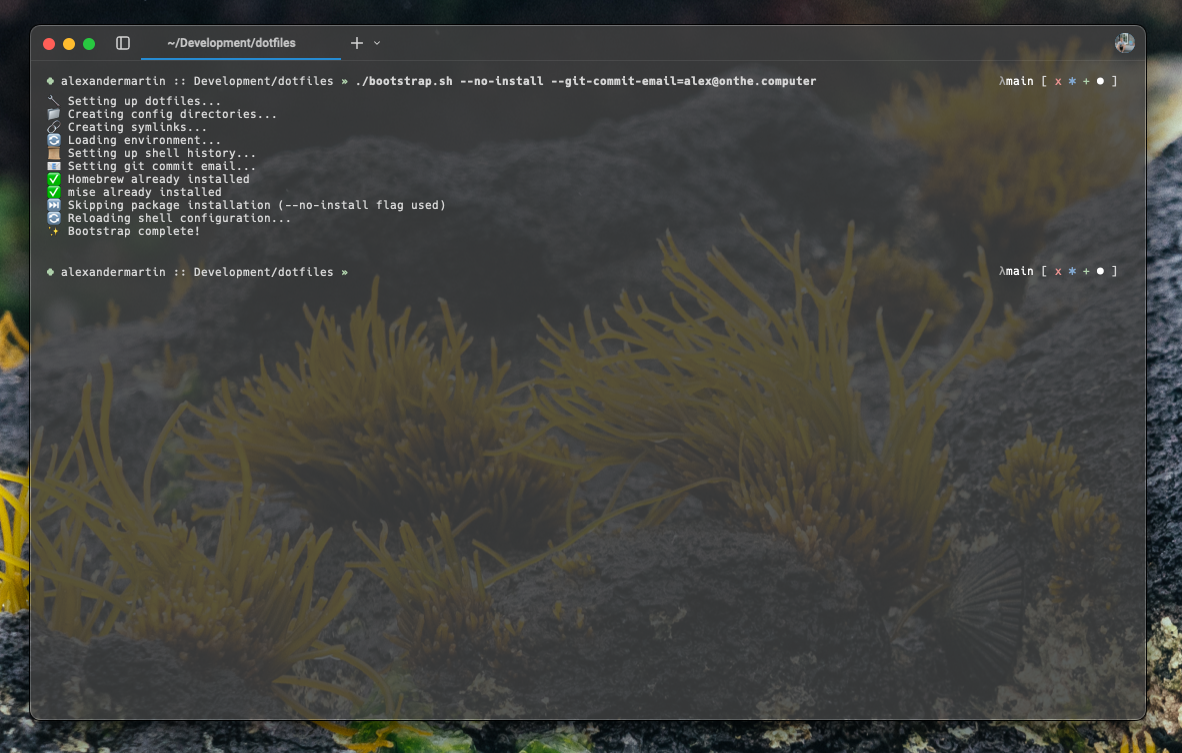
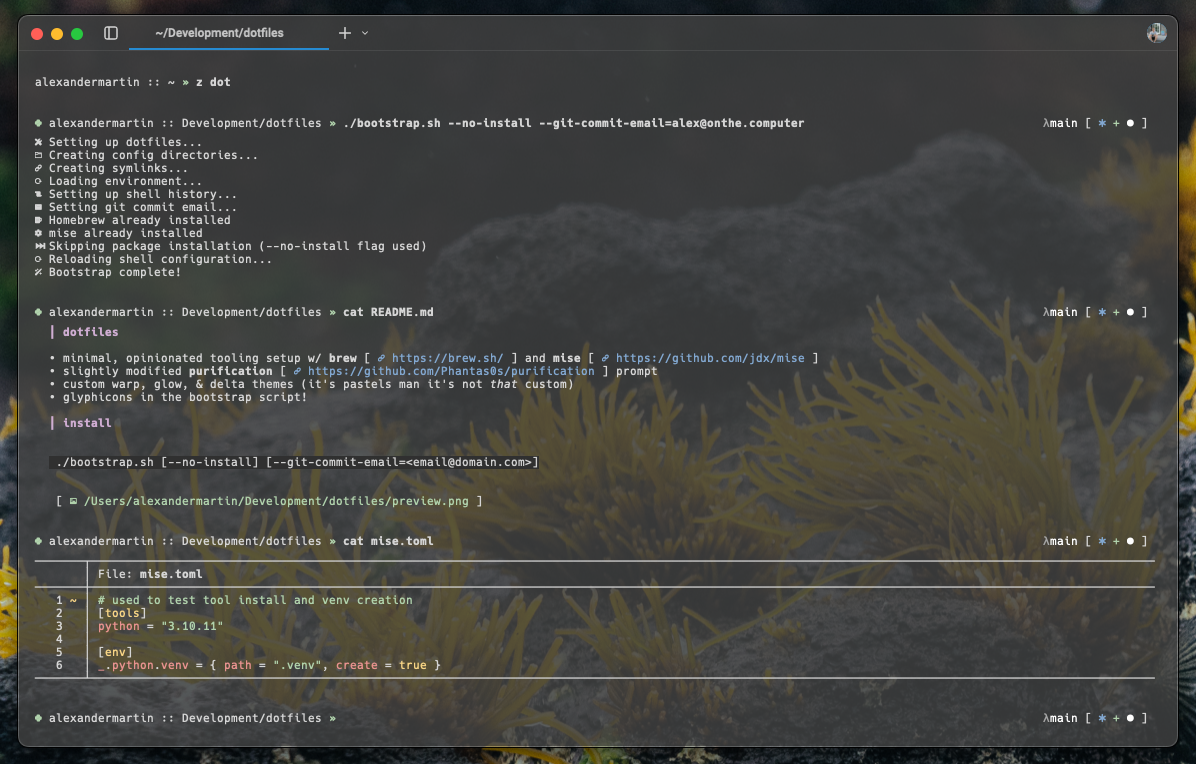
replace emojis with glyphs

diff --git a/README.md b/README.md
@@ -1,8 +1,8 @@
 ### dotfiles
 * minimal, opinionated tooling setup w/ [brew](https://brew.sh/) and [mise](https://github.com/jdx/mise)
 * slightly modified [purification](https://github.com/Phantas0s/purification) prompt
-* custom warp theme (it's pastels man it's not _that_ custom)
-* emojis in the bootstrap script
+* custom warp, glow, & delta themes (it's pastels man it's not _that_ custom)
+* glyphicons in the bootstrap script!
 
 ### install
 ```
